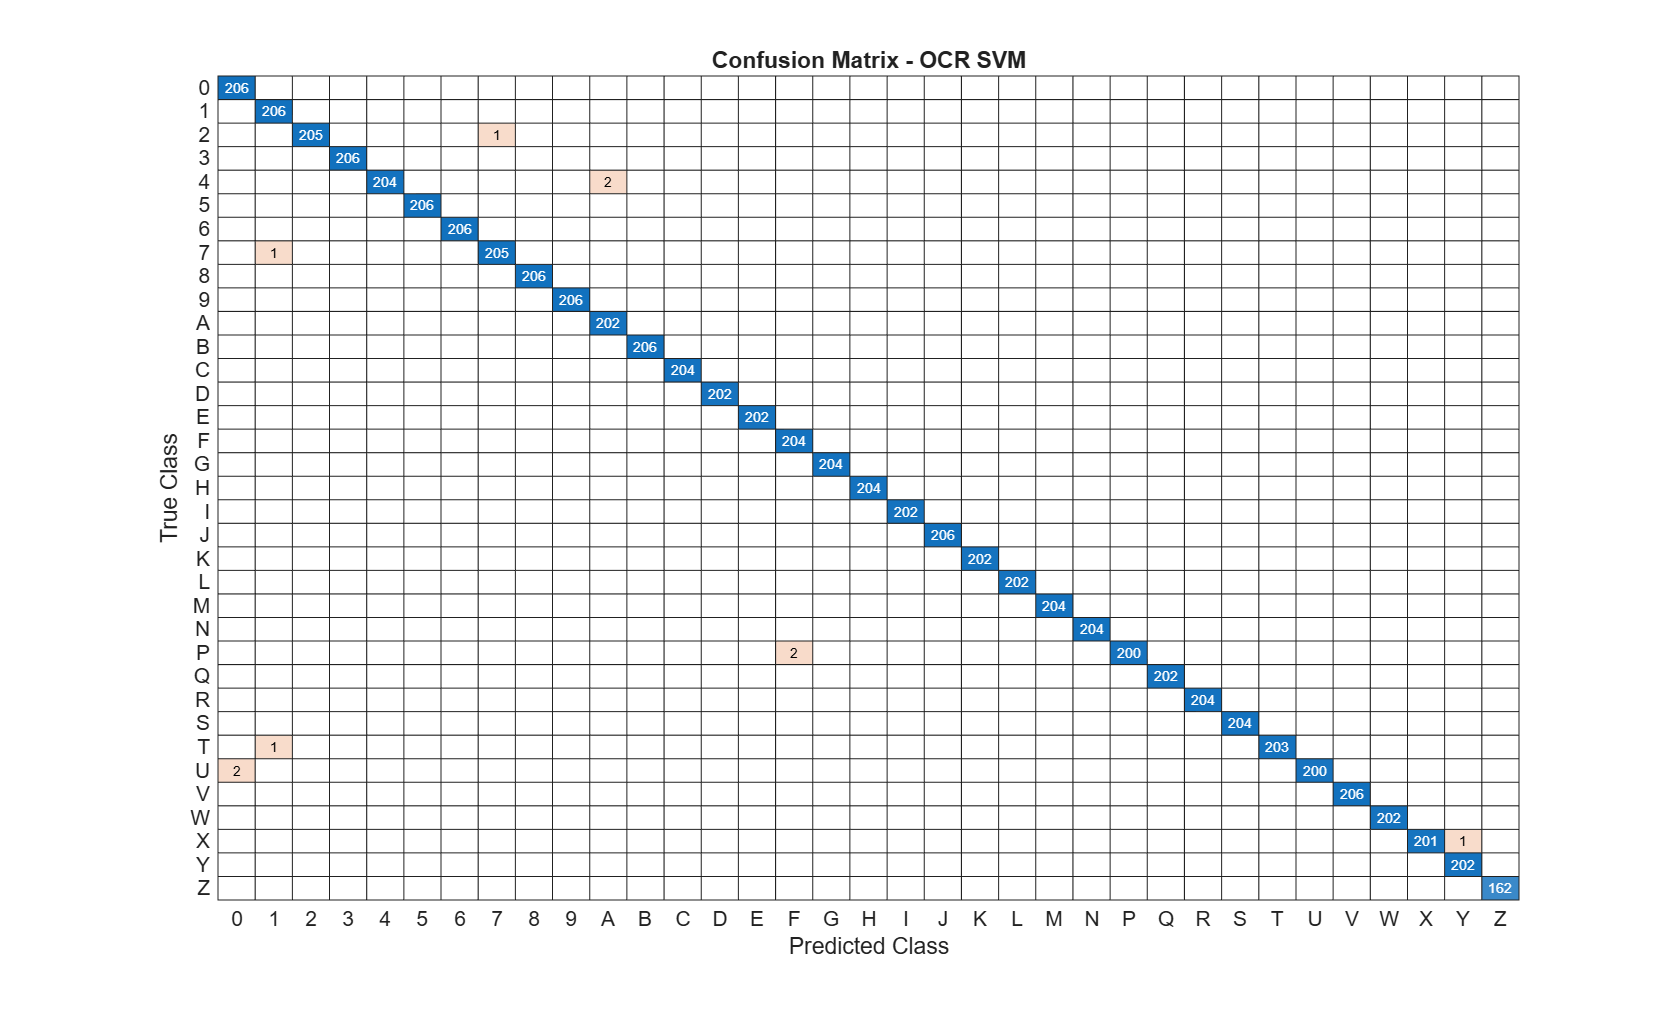
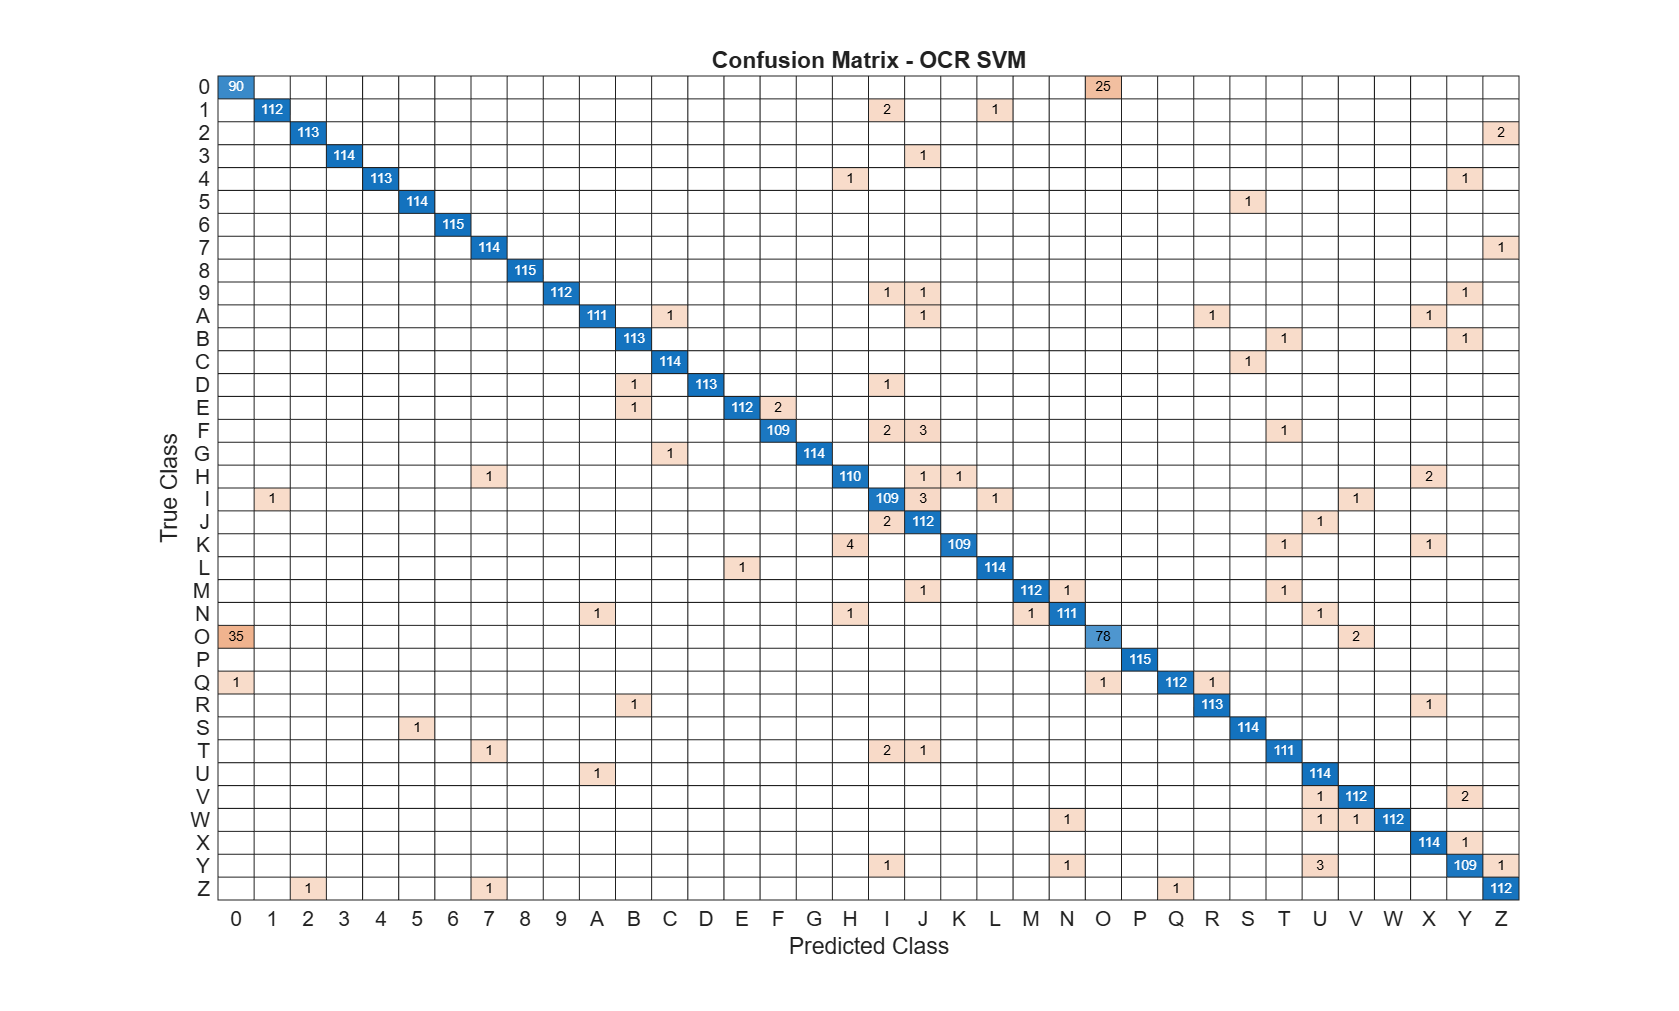
Enhance OCR processing: add confusion analysis, update segmentation logic, and modify visualization flags

Changed region(s): [[0.0929, 0.0613, 0.9291, 0.9199]]

diff --git a/characters_segmentation/segm.m b/characters_segmentation/segm.m
@@ -28,7 +28,7 @@ function chars = segm(im)
         y = bb(2); 
         w = bb(3); 
         h = bb(4);
-        
+
         ar = w / h; % Aspect Ratio
 
         cond_ar = (ar > 0.05 && ar < 1.5);
@@ -49,6 +49,16 @@ function chars = segm(im)
         keepMask = blobs(:, 4) > medH * 0.80;
         blobs = blobs(keepMask, :);
     end
+    %if ~isempty(blobs)
+
+        %widths  = blobs(:,3);
+        %heights = blobs(:,4);
+
+        %fprintf("Min: %.1fx%.1f\n", min(widths), min(heights));
+        %fprintf("Mean: %.1fx%.1f\n", mean(widths), mean(heights));
+        %fprintf("Max: %.1fx%.1f\n", max(widths), max(heights));
+
+    %end
 
     if ~isempty(blobs)
         chars = sortrows(blobs, 1);
